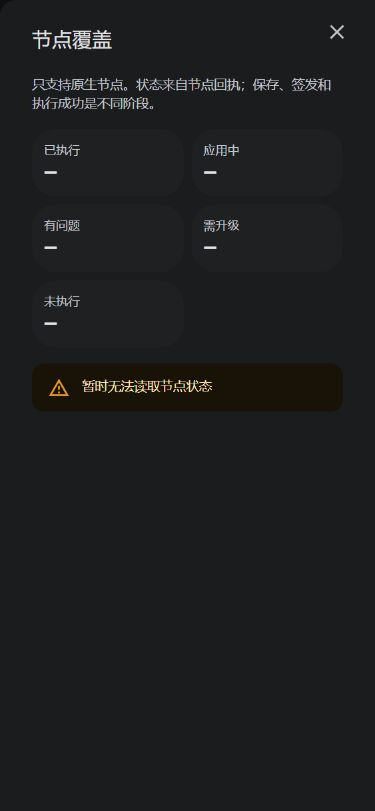
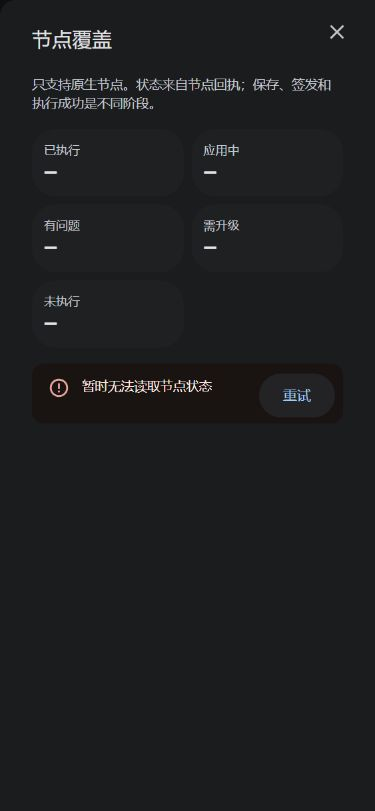
fix: distinguish coverage loading and failed reads

Changed region(s): [[0.6747, 0.4624, 0.9093, 0.524], [0.2347, 0.4624, 0.5573, 0.4932], [0.1173, 0.4624, 0.2053, 0.4932]]

diff --git a/web-react/src/views/admin/accessControl/NodeCoverageDrawer.tsx b/web-react/src/views/admin/accessControl/NodeCoverageDrawer.tsx
@@ -1,5 +1,5 @@
 import { useRef, useState } from 'react'
-import { Alert, Box, Button, Drawer, DialogContent, DialogTitle, IconButton, Stack, Typography, useTheme } from '@mui/material'
+import { Alert, Box, Button, Drawer, DialogContent, DialogTitle, IconButton, Skeleton, Stack, Typography, useTheme } from '@mui/material'
 import CloseIcon from '@mui/icons-material/Close'
 import PauseCircleOutlineIcon from '@mui/icons-material/PauseCircleOutlined'
 import RemoveCircleOutlineIcon from '@mui/icons-material/RemoveCircleOutlineOutlined'
@@ -16,7 +16,10 @@ import { destinationError } from './errors'
 import { AsyncButton } from '@/components/AsyncButton'
 const P = 'admin:access_control.coverage.'
 const filters = ['applied', 'pending', 'problem', 'upgrade', 'excluded'] as const
-export default function NodeCoverageDrawer({ status, onClose }: { status?: DestinationStatus; onClose: () => void }) {
+export default function NodeCoverageDrawer({ status, loading, failed, refreshing, onRetryRead, onClose }: {
+  status?: DestinationStatus; loading: boolean; failed: boolean; refreshing: boolean
+  onRetryRead: () => Promise<unknown>; onClose: () => void
+}) {
   const { t, dateTime, number } = useAccessTranslation(['admin', 'common'])
   const theme = useTheme()
   const [params, setParams] = useSearchParams()
@@ -34,14 +37,17 @@ export default function NodeCoverageDrawer({ status, onClose }: { status?: Desti
     finally { admission.current = false }
   }
   const now = Date.now()
+  const retryRead = <AsyncButton pending={refreshing} onClick={onRetryRead} sx={{ minHeight: 44 }}>{t('common:actions.retry')}</AsyncButton>
   return <Drawer open anchor="right" onClose={onClose} slotProps={{ paper: { role: 'dialog', 'aria-modal': true, 'aria-labelledby': 'coverage-title', sx: { width: { xs: '100vw', sm: 560 }, maxWidth: '100vw', bgcolor: theme.palette.md.surfaceContainerLow, borderTopLeftRadius: 16 } } }}>
     <Box sx={{ display: 'flex', alignItems: 'center' }}><DialogTitle id="coverage-title" sx={{ flex: 1, minWidth: 0 }}>{t(`${P}title`)}</DialogTitle><IconButton aria-label={t('common:actions.close')} onClick={onClose} sx={{ mr: 2, width: 44, height: 44 }}><CloseIcon /></IconButton></Box>
     <DialogContent><Stack spacing={2}>
       <Typography variant="body2" color="text.secondary">{t(`${P}hint`)}</Typography>
       <KpiGrid>{filters.map(value => <KpiTile key={value} label={t(`${P}filter_${value}`)} value={status ? number(status.nodes.filter(node => nodeFilter(node, now) === value).length) : '—'} pressed={filter === value} onToggle={() => setParams(prev => { const next = new URLSearchParams(prev); if (filter === value) next.delete('node_state'); else next.set('node_state', value); return next }, { replace: true, state: location.state })} />)}</KpiGrid>
-      {filter !== 'all' && <Button onClick={() => setParams(prev => { const next = new URLSearchParams(prev); next.delete('node_state'); return next }, { replace: true, state: location.state })}>{t(`${P}clear_filter`)}</Button>}
+      {filter !== 'all' && <Button sx={{ minHeight: 44 }} onClick={() => setParams(prev => { const next = new URLSearchParams(prev); next.delete('node_state'); return next }, { replace: true, state: location.state })}>{t(`${P}clear_filter`)}</Button>}
       {error && <Alert severity="error">{error}</Alert>}
-      {!status && <Alert severity="warning">{t(`${P}unavailable`)}</Alert>}
+      {!status && (loading ? <Stack spacing={1} role="progressbar" aria-label={t(`${P}loading`)} aria-busy="true">{[0, 1, 2, 3, 4, 5].map(id => <Skeleton key={id} variant="rounded" height={72} />)}</Stack>
+        : <Alert severity="error" action={retryRead}>{t(`${P}unavailable`)}</Alert>)}
+      {status && failed && <Alert severity="warning" action={retryRead}>{t(`${P}read_stale`)}</Alert>}
       {status?.nodes.filter(node => filter === 'all' || nodeFilter(node, now) === filter).map(node => {
         const colors = stateTone(theme, nodeAccessTone(node, now))
         const tone = node.state === 'paused' ? { ...colors, Icon: PauseCircleOutlineIcon } : node.state === 'unsupported_kind' ? { ...colors, Icon: RemoveCircleOutlineIcon } : colors
@@ -53,7 +59,7 @@ export default function NodeCoverageDrawer({ status, onClose }: { status?: Desti
           {node.over_limit && <Typography color="error">{t(`${P}over_limit`, { kind: node.over_limit.kind, used: node.over_limit.used, limit: node.over_limit.limit })}</Typography>}
           {node.sniffing_insufficient.map(listener => <Typography key={listener.listener} color="error">{t(`${P}sniffing`, { listener: listener.label })}</Typography>)}
           {fallback !== 'none' && <Alert sx={{ mt: 1 }} severity={fallback === 'exhausted' || fallback === 'stopping' ? 'error' : 'warning'}>{t(`${P}fallback_${fallback}`, { reason: node.fallback_reason })}</Alert>}
-          {node.agent_id && node.kind === 'psp' && node.supports.policy && ['pending', 'rejected', 'over_limit', 'sniffing'].includes(node.state) && <AsyncButton pending={retry.isPending} onClick={() => retryNode(node.agent_id!)}>{t(`${P}retry`)}</AsyncButton>}
+          {node.agent_id && node.kind === 'psp' && node.supports.policy && ['pending', 'rejected', 'over_limit', 'sniffing'].includes(node.state) && <AsyncButton pending={retry.isPending} onClick={() => retryNode(node.agent_id!)} sx={{ minHeight: 44 }}>{t(`${P}retry`)}</AsyncButton>}
         </Box>
       })}
       {status && !status.nodes.some(node => filter === 'all' || nodeFilter(node, now) === filter) && <Typography color="text.secondary">{t(`${P}empty`)}</Typography>}

diff --git a/web-react/src/views/admin/accessControl/AccessControlView.test.tsx b/web-react/src/views/admin/accessControl/AccessControlView.test.tsx
@@ -19,6 +19,49 @@ vi.mock('react-i18next', () => ({ useTranslation: () => ({ t: (key: string, opti
 vi.mock('@/components/CodeEditor', () => ({ default: (p: { value: string; onChange: (s: string) => void; ariaLabel: string; readOnly: boolean }) => <textarea aria-label={p.ariaLabel} value={p.value} readOnly={p.readOnly} onChange={e => p.onChange(e.target.value)} /> }))
 import AccessControlView from './AccessControlView'
 const P = 'admin:access_control.'
+it('shows coverage loading separately from unavailable status', async () => {
+  const original = api.get.getMockImplementation()!
+  api.get.mockImplementation((url: string, config?: unknown) => url.endsWith('/status') ? new Promise(() => {}) : original(url, config))
+  mount('/admin/access-control?sheet=nodes')
+  const drawer = await screen.findByRole('dialog', { name: `${P}coverage.title` })
+  expect(within(drawer).getByRole('progressbar', { name: `${P}coverage.loading` }).querySelectorAll('.MuiSkeleton-root')).toHaveLength(6)
+  expect(within(drawer).queryByText(`${P}coverage.unavailable`)).toBeNull()
+})
+it('retries failed coverage reads without closing the cold sheet or posting a node retry', async () => {
+  const original = api.get.getMockImplementation()!
+  let failed = true
+  api.get.mockImplementation(async (url: string, config?: unknown) => {
+    if (url.endsWith('/status') && failed) throw err(500, 'status_failed')
+    return original(url, config)
+  })
+  const router = mount('/admin/access-control?sheet=nodes&node_state=applied')
+  const drawer = await screen.findByRole('dialog', { name: `${P}coverage.title` })
+  await within(drawer).findByText(`${P}coverage.unavailable`)
+  failed = false
+  fireEvent.click(within(drawer).getByRole('button', { name: 'common:actions.retry' }))
+  await within(drawer).findByText('Tokyo')
+  expect(router.state.location.search).toBe('?sheet=nodes&node_state=applied')
+  expect(api.get.mock.calls.filter(([url]) => url.endsWith('/status'))).toHaveLength(2)
+  expect(api.post).not.toHaveBeenCalled()
+})
+it('retains the last coverage rows and reports a failed refresh explicitly', async () => {
+  const original = api.get.getMockImplementation()!
+  let failed = false
+  api.get.mockImplementation(async (url: string, config?: unknown) => {
+    if (url.endsWith('/status')) {
+      if (failed) throw err(500, 'status_failed')
+      return { data: destinationStatus({ nodes: [destinationNode({ state: 'rejected' })] }) }
+    }
+    return original(url, config)
+  })
+  api.post.mockImplementation(async () => { failed = true; return { data: {} } })
+  mount('/admin/access-control?sheet=nodes')
+  const drawer = await screen.findByRole('dialog', { name: `${P}coverage.title` })
+  fireEvent.click(await within(drawer).findByRole('button', { name: `${P}coverage.retry` }))
+  await within(drawer).findByText(`${P}coverage.read_stale`)
+  expect(within(drawer).getByText('Tokyo')).toBeTruthy()
+  expect(within(drawer).getByRole('button', { name: 'common:actions.retry' })).toBeTruthy()
+})
 it('keeps node coverage title separate from its close button', async () => {
   mount('/admin/access-control?sheet=nodes')
   const heading = await screen.findByRole('heading', { name: `${P}coverage.title` })

diff --git a/web-react/src/views/admin/accessControl/AccessControlView.tsx b/web-react/src/views/admin/accessControl/AccessControlView.tsx
@@ -113,7 +113,7 @@ function AccessControlPage({ scope }: { scope: QueryScope }) {
       {tab === 'policies' && (definitions.data ? <>{definitions.error && <Alert sx={{ mb: 2 }} severity="warning" action={<Button onClick={() => void definitions.refetch()}>{t('common:actions.retry')}</Button>}>{t(`${P}definitions_stale`)}</Alert>}<PoliciesTab data={definitions.data} status={status.data} seconds={settings.data?.effective.dest_policy_apply_min_seconds} onCreateList={createList} onExemptions={() => sheet.open('exemptions')} openRequest={policyRequest} onOpenRequestHandled={consumePolicyRequest} /></> : definitions.error ? <Alert severity="error" action={<Button onClick={() => void definitions.refetch()}>{t('common:actions.retry')}</Button>}>{t(`${P}definitions_failed`)}</Alert> : <Stack spacing={1} aria-busy="true">{[0,1,2,3,4].map(key => <Skeleton key={key} variant="rounded" height={56} />)}</Stack>)}
       <ListsTab active={tab === 'lists'} selectedId={activeSheet === 'list' ? listId : null} onCloseSheet={sheet.close} onOpenList={openList} onOpenPolicy={openPolicy} onSettings={() => openSettings('dest_list_refresh_hours')} onTest={openTest} newListRequest={newListRequest} policies={definitions.data} status={status.data} />
     </>}
-    {activeSheet === 'nodes' && <NodeCoverageDrawer status={status.data} onClose={sheet.close} />}
+    {activeSheet === 'nodes' && <NodeCoverageDrawer status={status.data} loading={status.isPending} failed={!!status.error} refreshing={status.isFetching} onRetryRead={() => status.refetch()} onClose={sheet.close} />}
     {activeSheet === 'exemptions' && <ExemptionsSheet onClose={sheet.close} onOpenUser={openUser} etaMs={status.data?.apply_eta_ms} />}
     {activeSheet === 'test' && <TestSheet onClose={sheet.close} onOpenPolicy={openPolicy} status={status.data} prefill={(location.state as DrawerHistoryState | null)?.prefill} />}
     <RiskUserDrawer userId={user.id} onClose={user.close} host="access" />

diff --git a/docs/access-control-acceptance/README.md b/docs/access-control-acceptance/README.md
@@ -96,7 +96,7 @@ production browser smoke checks also passed.
 | [Chinese date](coverage-locale-zh-CN-dark-375.jpg) | Chinese, dark, 375 × 812 | Applied filter pressed and Chinese date/time |
 | [English date](coverage-locale-en-US-dark-375.jpg) | English, dark, 375 × 812 | Same applied node/time rendered in English |
 | [Coverage empty](coverage-matrix-empty-zh-CN-dark-375.jpg) | Chinese, dark, 375 × 812 | Zero KPI counts and explicit empty state |
-| [Coverage unavailable](coverage-matrix-error-zh-CN-dark-375.jpg) | Chinese, dark, 375 × 812 | Cold coverage deep link after failed reads shows unknown counts, not zero |
+| [Coverage unavailable](coverage-matrix-error-zh-CN-dark-375.jpg) | Chinese, dark, 375 × 812 | Cold coverage deep link after failed reads shows unknown counts and a 44px read-retry button |
 
 The normal seed includes twelve nodes. Its pending node had passed the real
 ten-minute threshold during these captures, so it appears in Problems rather
@@ -105,6 +105,18 @@ confirmed `aria-pressed` on the applied filter, Escape closing and focus
 restoration to the coverage trigger. This fills the coverage screenshot variants
 only; the full per-view/dialog matrix, remaining §7.5 checks, real enforcement
 and owner approval are still outstanding.
+
+Coverage reads now distinguish six skeleton rows during first load, a failed
+first read with explicit retry, and a stale refresh with the last node rows
+retained. Three page/query regressions failed before repair and now pass;
+the complete access-control/style focused suite passed 214 tests. Read retries
+preserve the cold sheet/filter and do not issue node-application POSTs. Browser
+interaction in the error scenario confirmed the loading transition and return
+to the same error sheet with a retry button, measured at 44px high. Clear-filter
+and node-application retry controls also measured 44px high; normal-scene KPI
+targets measured approximately 68px, and the drawer had no horizontal overflow.
+Escape again restored focus to the coverage trigger. This does
+not close the remaining S14 explanatory/action links or other screen gates.
 
 Fixture data deliberately differs from defaults: regular-expression limit 128,
 deployment delay 93 seconds and list refresh interval 17 hours. The policy help

diff --git a/docs/access-control.md b/docs/access-control.md
@@ -1718,8 +1718,22 @@ remaining accessibility requirements and owner approval remain pending.
 The cached-list/title commit `f16fd638` passed its full
 [Test workflow](https://github.com/KazuhaHub/Passwall-Sub-Panel/actions/runs/37673574750).
 Its [released-node systemd run](https://github.com/KazuhaHub/Passwall-Sub-Panel/actions/runs/37673574763)
-was still installing fixture prerequisites when this record was written and is
-not claimed as successful. This frontend formatting increment needs its own CI.
+was superseded while installing fixture prerequisites and is not counted as a
+pass.
+
+The interface-formatting commit `9662fe61` passed both
+[released-node systemd acceptance](https://github.com/KazuhaHub/Passwall-Sub-Panel/actions/runs/37675414227).
+and the full [Test workflow](https://github.com/KazuhaHub/Passwall-Sub-Panel/actions/runs/37675414223).
+
+Coverage first reads show six skeleton rows instead of an unavailable warning.
+Read failures offer an explicit GET retry; stale refreshes retain the last
+node rows with a warning. Three failing page/query regressions now pass, and
+the complete access-control/style focused suite passed 214 tests. Retrying a
+read preserves the sheet/filter and cannot become a node-application POST.
+Read retry, node retry and clear-filter buttons have a 44px minimum height;
+the error-scene browser capture verifies the read retry's actual dimensions.
+S14's remaining explanatory/action links and the rest of the screen matrix
+retain their implementation/acceptance gates.
 
 List previews and policy previews are excluded from write-audit logging by
 exact POST path. Other destination writes, including `/dest/test`, retain normal
